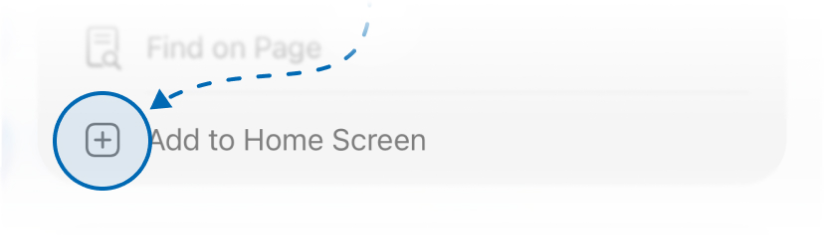
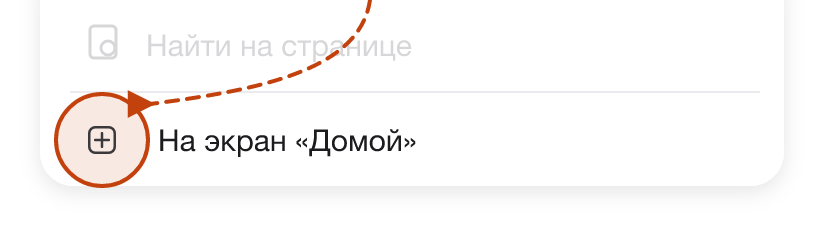
PWA-плашка: картинки инструкции перерисованы под «Покатим»
Вместо картинок WebTrader — иконка PWA «Покатим» на экране «Домой», адресная строка pokatim, подписи меню Safari
по-русски («Поделиться», «На экран „Домой“»), подсветка шагов акцентом #C2410C. Размеры прежние — install-images.ts
без изменений. Исходники SVG — source/.

diff --git a/docs/tasks/2026-10-29-pwa-install-banner/pr.md b/docs/tasks/2026-10-29-pwa-install-banner/pr.md
@@ -49,10 +49,11 @@ APPROVE. Все замечания исправлены:
 - Реальная установка на устройстве: нативный диалог Chrome на Android и «На экран „Домой“» в Safari.
 - Настоящий движок WebKit: iOS проверен через UA в Chromium.
 
-## Напоминание
+## Картинки инструкции
 
-На картинках `apps/app/assets/images/pwa-install/*.png` — бренд и адресная строка WebTrader. Их нужно перерисовать под
-«Покатим»: заменить файлы с теми же именами. Если пропорции изменятся, поправить размеры в `install-images.ts`.
+Картинки `apps/app/assets/images/pwa-install/*.png` перерисованы под «Покатим» (2026-10-29): иконка PWA на экране «Домой»,
+адресная строка `pokatim`, подписи меню Safari по-русски («Поделиться», «На экран „Домой“»), подсветка шагов — акцент
+`#C2410C`. Размеры прежние (`install-images.ts` не менялся). Исходники — `source/*.svg`.
 
 ## Доработка 2026-10-29 (§8.2 task.md): с первого визита и на лендинге гостя
 
